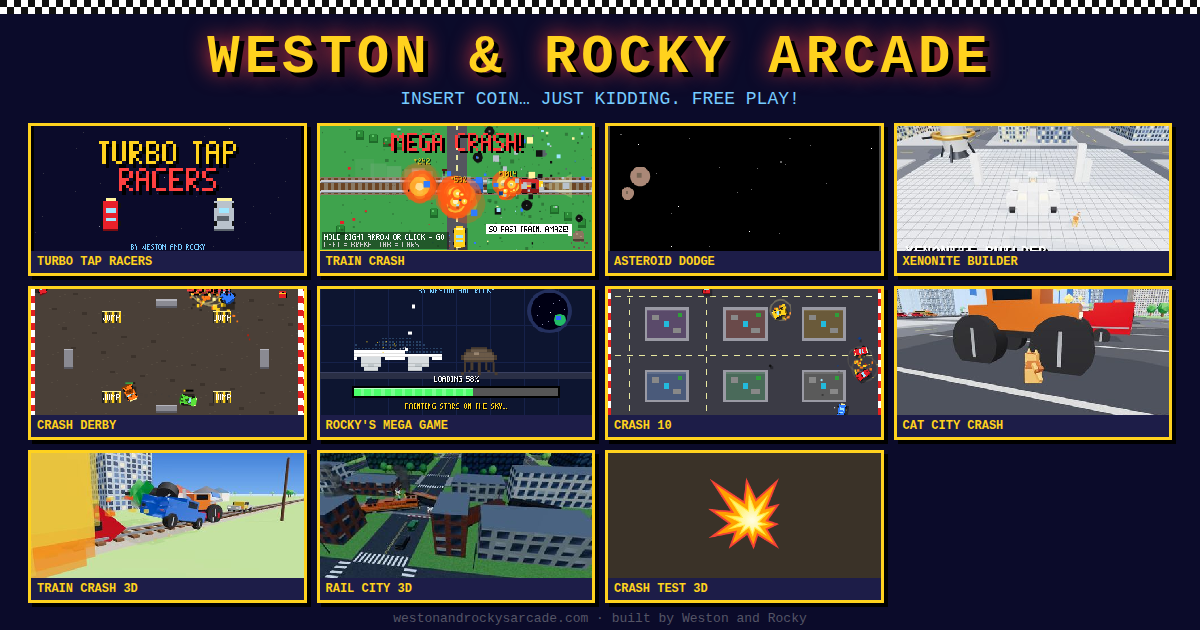
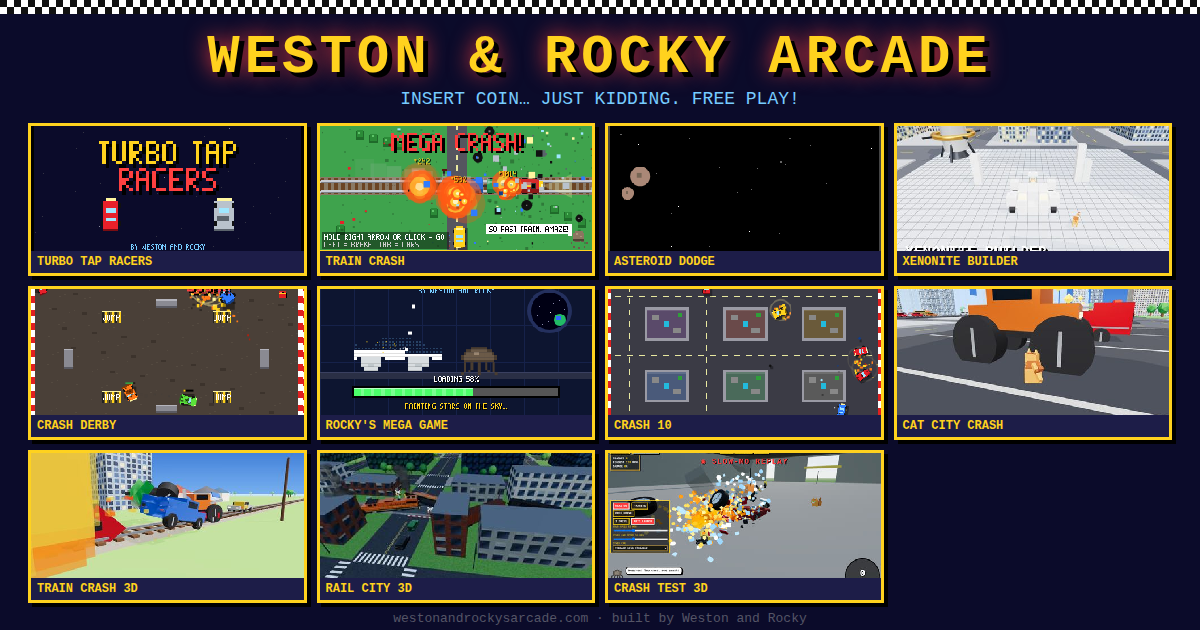
Replace Crash Test 3D OG placeholder with head-on screenshot
Use the Power Wagon vs Ferrari wreck on the arcade card and collage, point the game page at og/crash-test-3d.jpg, and regenerate share images.

Changed region(s): [[0.4933, 0.6937, 0.74, 0.9349]]

diff --git a/index.html b/index.html
@@ -90,7 +90,7 @@ footer{text-align:center;color:#556;padding:20px}
     <div class="d">Shared world! Weston and Dad see the same cars, same crashes, same train. Host picks Tag or Derail Race. More traffic, yellow street jumps, police Cybertrucks, and the Cat City tabby runs to the 100-level garage.</div>
   </a>
   <a class="card" href="games/crash-test-3d.html?v=play9">
-    <div class="box" style="height:150px;display:flex;align-items:center;justify-content:center;font-size:56px;border-bottom:4px solid #000;background:#3a3228">💥</div>
[1 lines of base64/hex data omitted]
     <div class="t">CRASH TEST 3D</div>
     <div class="d">Weston's crash lab! Pick Teslas, a 2015 Ram Power Wagon (Dad's truck), a Ram 3500 dually, Ferraris, and smash a wall, a train, spikes, or another car. Hoods crumple, glass shatters, dummies fly. Play together — same wreck on both screens.</div>
   </a>

diff --git a/games/crash-test-3d.html b/games/crash-test-3d.html
@@ -13,13 +13,13 @@
 <meta property="og:site_name" content="Weston &amp; Rocky&#8217;s Arcade">
 <meta property="og:title" content="Crash Test 3D · Weston &amp; Rocky&#8217;s Arcade">
 <meta property="og:description" content="Free blocky 3D game by Weston and Rocky. Join the room and play together!">
-<meta property="og:image" content="https://westonandrockysarcade.com/og-image.png">
+<meta property="og:image" content="https://westonandrockysarcade.com/og/crash-test-3d.jpg">
 <meta property="og:url" content="https://westonandrockysarcade.com/games/crash-test-3d.html">
 <meta property="og:type" content="website">
 <meta name="twitter:card" content="summary_large_image">
 <meta name="twitter:title" content="Crash Test 3D · Weston &amp; Rocky&#8217;s Arcade">
 <meta name="twitter:description" content="Free blocky 3D game by Weston and Rocky. Join the room and play together!">
-<meta name="twitter:image" content="https://westonandrockysarcade.com/og-image.png">
+<meta name="twitter:image" content="https://westonandrockysarcade.com/og/crash-test-3d.jpg">
 <!-- /arcade-share -->
 <style>
 html,body{margin:0;height:100%;overflow:hidden;background:#1a1814;font-family:"Courier New",monospace;color:#fff;user-select:none;-webkit-user-select:none}
